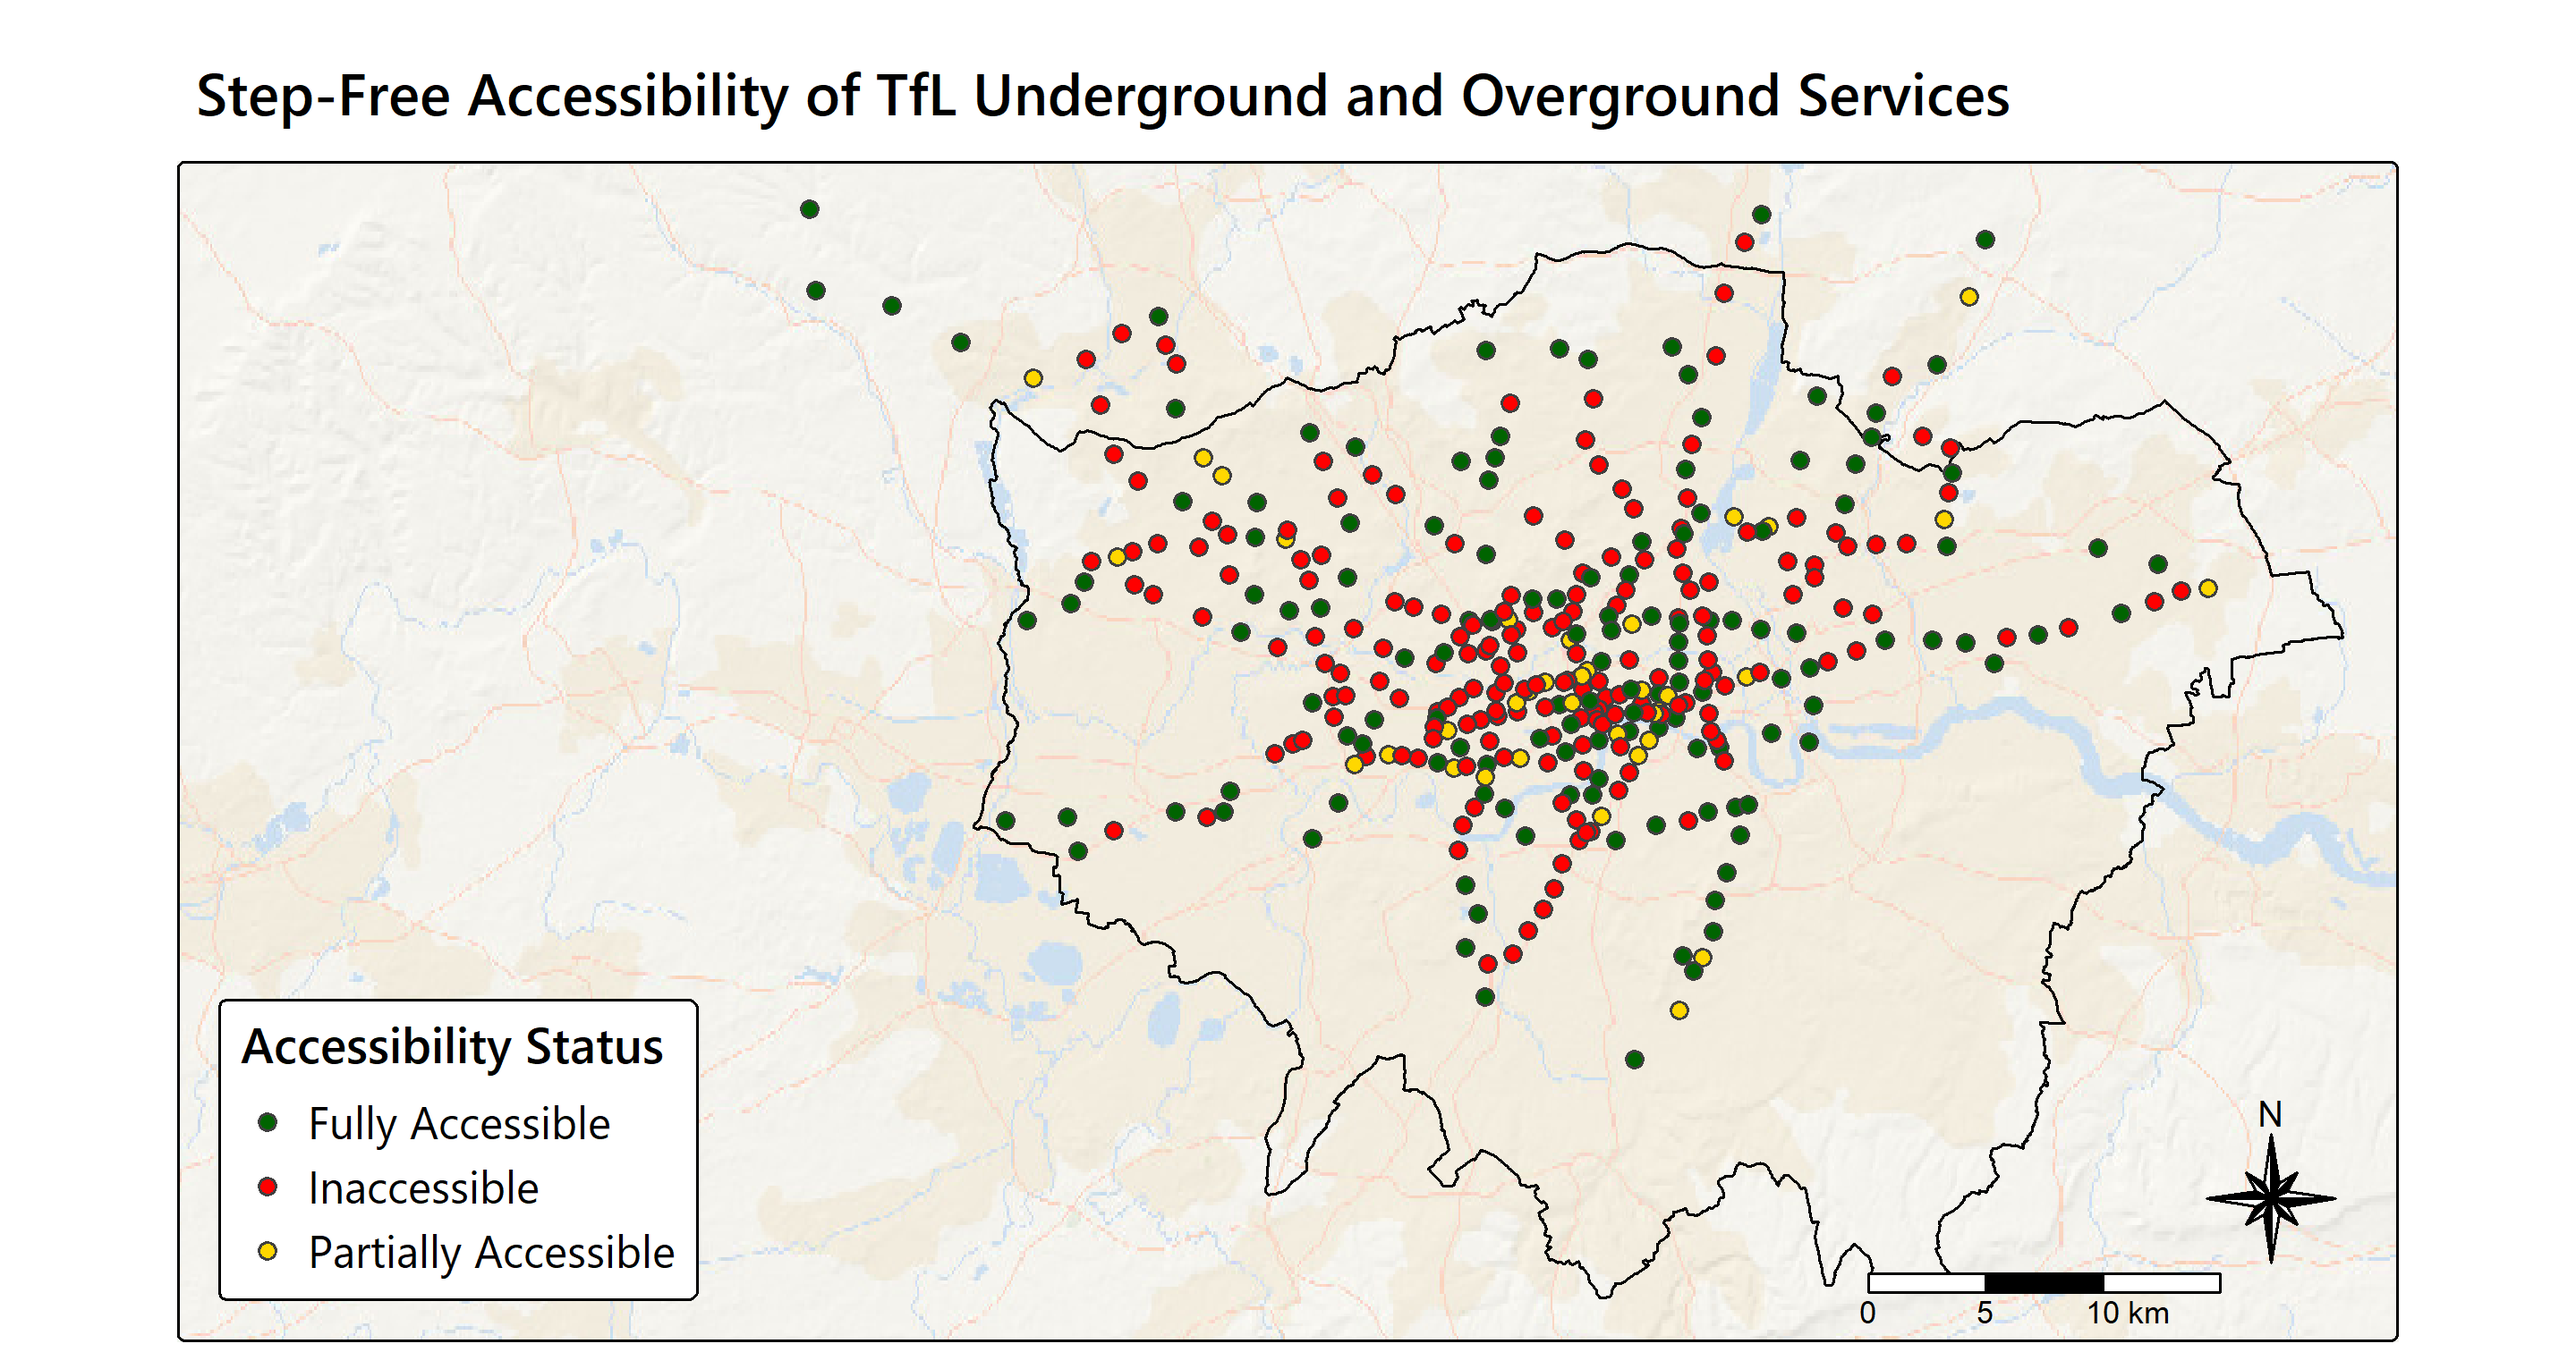
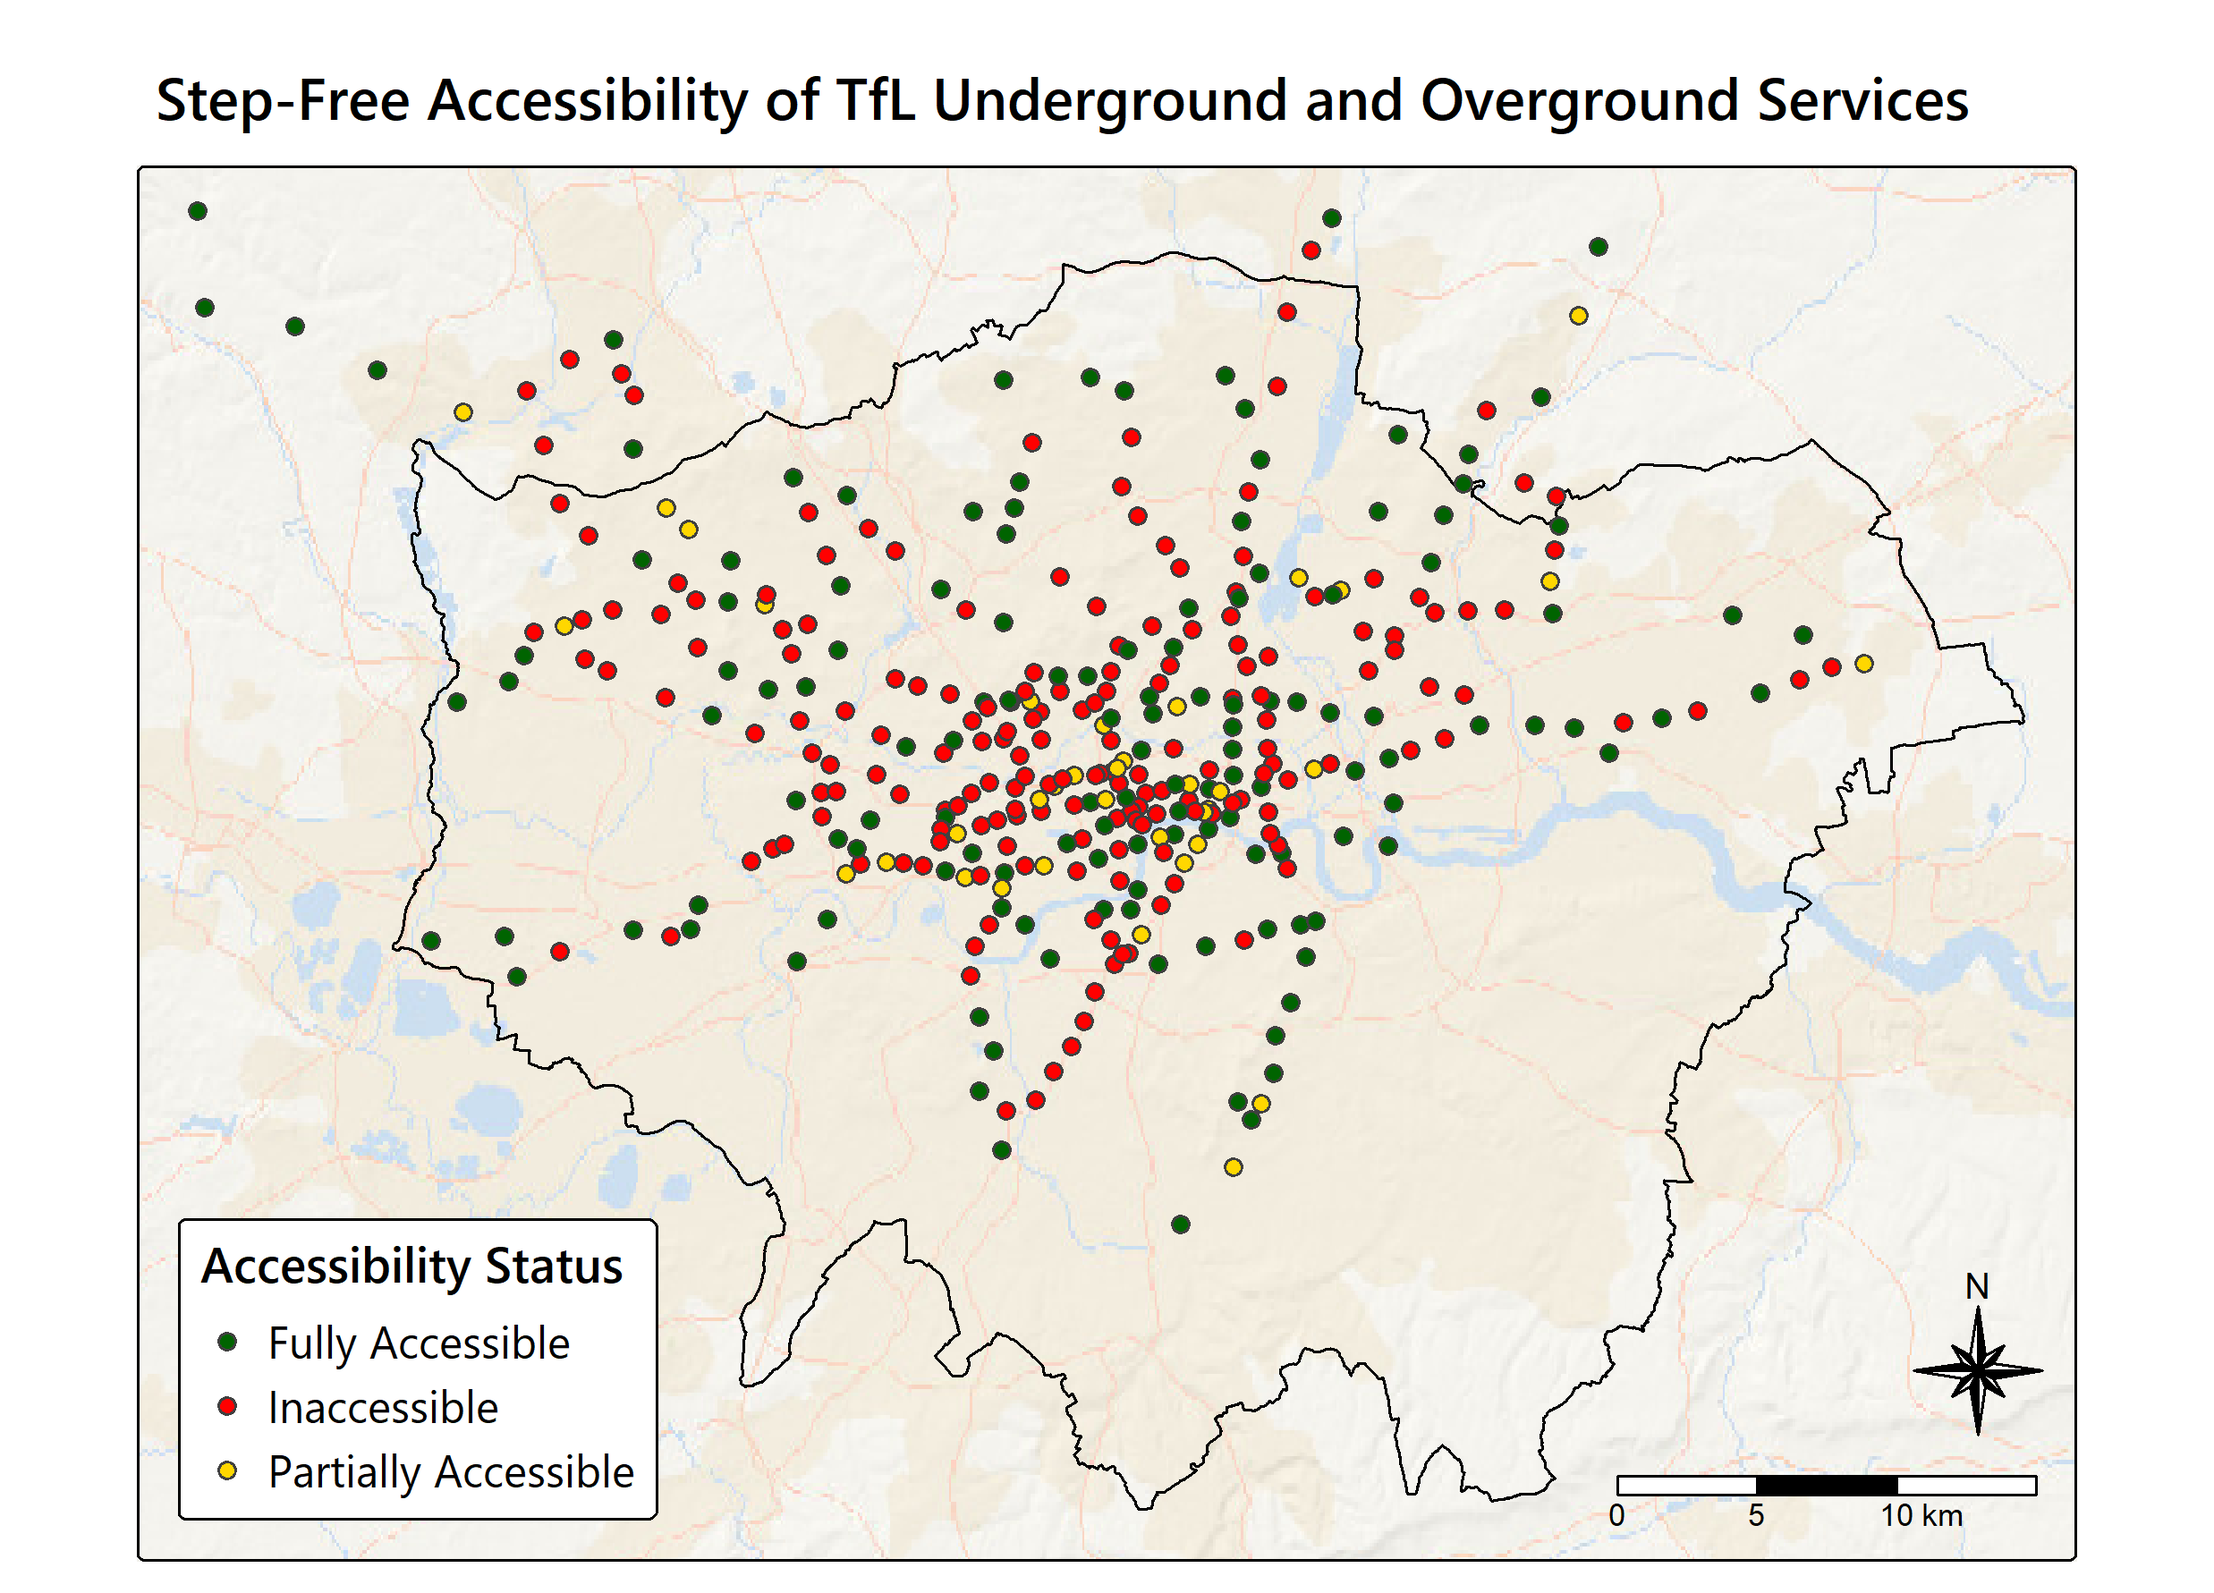
otp progress...

diff --git a/README.md b/README.md
@@ -14,4 +14,7 @@
     - I originally tried using osmextract (more reproducible) but there were problems with some of the tags, stopping setup_r5 from completing successfully
     - Note that I downloaded this data on 06/06/25
     - Should I upload this data myself? e.g. DropBox
+    - For OTP routing, it needs to be filtered using osmium
+      - User can download this themself (but I will probably have to upload it)
+      - Using the recommended command from the OSM website: `osmium tags-filter planet_-0.972,51.228_0.3339,51.7629.osm.pbf w/highway wa/public_transport=platform wa/railway=platform w/park_ride=yes r/type=restriction r/type=route -o filtered.osm.pbf -f pbf,add_metadata=false`
 - To get the Overground/Lizzie line data, user will need to register for the National Rail API and point to these in .Renviron
